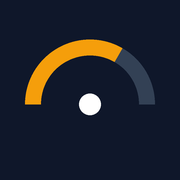
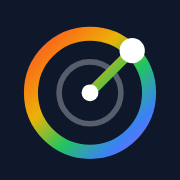
상단 네비게이션·무지개 상단바·로고 적용 (Disclosure Analysis), 임원 직무 기호 정리
Claude-Session: https://claude.ai/code/session_01H7kZjocQbS26bCtTYzWiFL

Changed region(s): [[0.1111, 0.1389, 0.8889, 0.8889]]

diff --git a/src/components/CompanyView.tsx b/src/components/CompanyView.tsx
@@ -7,6 +7,7 @@ import { FAV_KEY, pushRecent, toggleFavorite, useStoredList } from "@/lib/storag
 import type { CompanyBundle, Metrics, ScoreResult } from "@/lib/types";
 import { PartBar, Radar, ScoreGauge } from "./charts";
 import { Detail } from "./Detail";
+import { Logo, SITE_NAME } from "./Logo";
 import { Feed } from "./Feed";
 import { Simulator } from "./Simulator";
 import { Card, Disclaimer, Notice, RiskChip, SentimentChip } from "./ui";
@@ -67,25 +68,49 @@ export function CompanyView({ code }: { code: string }) {
 
   return (
     <div className="flex min-h-dvh flex-col">
-      <header className="sticky top-0 z-10 flex items-center gap-2 bg-slate-900 px-3 py-3 text-white">
-        <Link href="/" aria-label="뒤로" className="rounded-full px-2 py-1 text-lg active:bg-white/10">←</Link>
-        <div className="min-w-0 flex-1">
-          <h1 className="truncate text-base font-semibold">{bundle.info.name}</h1>
-          <p className="truncate text-[11px] text-slate-300">
-            {[bundle.info.market, bundle.info.stockCode].filter(Boolean).join(" · ")}
-          </p>
+      <header className="sticky top-0 z-20 bg-slate-900 text-white">
+        <div className="rainbow-bar h-1" />
+        <div className="flex items-center gap-2 px-3 py-2">
+          <Link href="/" aria-label="처음으로" className="flex items-center gap-1 rounded-full py-1 pr-1 text-lg active:bg-white/10">
+            <span className="px-1">←</span>
+            <Logo size={30} />
+          </Link>
+          <div className="min-w-0 flex-1">
+            <p className="rainbow-text text-[10px] font-bold uppercase tracking-wider">{SITE_NAME}</p>
+            <h1 className="truncate text-base font-semibold leading-tight">{bundle.info.name}</h1>
+            <p className="truncate text-[11px] text-slate-300">
+              {[bundle.info.market, bundle.info.stockCode].filter(Boolean).join(" · ")}
+            </p>
+          </div>
+          <button
+            onClick={() => toggleFavorite(bundle.info)}
+            aria-label={isFav ? "관심 기업에서 빼기" : "관심 기업에 담기"}
+            aria-pressed={isFav}
+            className="rounded-full px-2 py-1 text-xl active:bg-white/10"
+          >
+            {isFav ? "★" : "☆"}
+          </button>
         </div>
-        <button
-          onClick={() => toggleFavorite(bundle.info)}
-          aria-label={isFav ? "관심 기업에서 빼기" : "관심 기업에 담기"}
-          aria-pressed={isFav}
-          className="rounded-full px-2 py-1 text-xl active:bg-white/10"
-        >
-          {isFav ? "★" : "☆"}
-        </button>
+        <nav aria-label="메뉴" className="grid grid-cols-5 border-t border-white/10">
+          {TABS.map((t) => (
+            <button
+              key={t.id}
+              onClick={() => {
+                setTab(t.id);
+                window.scrollTo({ top: 0 });
+              }}
+              aria-current={tab === t.id ? "page" : undefined}
+              className={`relative flex flex-col items-center gap-0.5 py-2 text-[11px] ${tab === t.id ? "font-semibold text-white" : "text-slate-400"}`}
+            >
+              <span className="text-base leading-none">{t.icon}</span>
+              {t.label}
+              {tab === t.id && <span className="rainbow-bar absolute inset-x-2 bottom-0 h-[3px] rounded-full" />}
+            </button>
+          ))}
+        </nav>
       </header>
 
-      <main className="flex-1 space-y-3 p-3 pb-24">
+      <main className="flex-1 space-y-3 p-3 pb-8">
         {bundle.notice && <Notice tone={bundle.demo ? "info" : "warn"}>{bundle.notice}</Notice>}
         {tab === "summary" && <Summary bundle={bundle} score={score} />}
         {tab === "detail" && <Detail bundle={bundle} />}
@@ -94,23 +119,6 @@ export function CompanyView({ code }: { code: string }) {
         {tab === "info" && <Info bundle={bundle} />}
         <Disclaimer />
       </main>
-
-      <nav className="safe-bottom fixed inset-x-0 bottom-0 z-20 mx-auto grid max-w-md grid-cols-5 border-t border-slate-200 bg-white/95 backdrop-blur">
-        {TABS.map((t) => (
-          <button
-            key={t.id}
-            onClick={() => {
-              setTab(t.id);
-              window.scrollTo({ top: 0 });
-            }}
-            aria-current={tab === t.id ? "page" : undefined}
-            className={`flex flex-col items-center gap-0.5 py-2 text-[11px] ${tab === t.id ? "font-semibold text-slate-900" : "text-slate-400"}`}
-          >
-            <span className="text-lg leading-none">{t.icon}</span>
-            {t.label}
-          </button>
-        ))}
-      </nav>
     </div>
   );
 }

diff --git a/src/components/HomeClient.tsx b/src/components/HomeClient.tsx
@@ -5,6 +5,7 @@ import { useEffect, useState } from "react";
 import { demoList } from "@/lib/demo-data";
 import { clearRecent, FAV_KEY, RECENT_KEY, useStoredList } from "@/lib/storage";
 import type { CompanyInfo } from "@/lib/types";
+import { Logo, SITE_NAME } from "./Logo";
 import { Card, Disclaimer, Notice } from "./ui";
 
 export function HomeClient() {
@@ -42,9 +43,16 @@ export function HomeClient() {
 
   return (
     <div className="min-h-dvh">
-      <header className="bg-slate-900 px-4 pb-5 pt-6 text-white">
-        <h1 className="text-xl font-bold">공시 레이더</h1>
-        <p className="mt-1 text-xs text-slate-300">공시·재무·뉴스를 모아 기업 위험도를 한눈에</p>
+      <header className="bg-slate-900 text-white">
+        <div className="rainbow-bar h-1.5" />
+        <div className="px-4 pb-5 pt-4">
+        <div className="flex items-center gap-3">
+          <Logo size={44} />
+          <div>
+            <h1 className="rainbow-text text-xl font-extrabold leading-tight">{SITE_NAME}</h1>
+            <p className="text-xs text-slate-300">공시 분석 · 공시·재무·뉴스로 기업 위험도를 한눈에</p>
+          </div>
+        </div>
         <div className="mt-4 flex items-center gap-2 rounded-xl bg-white px-3 py-2.5 text-slate-900">
           <span aria-hidden>🔍</span>
           <input
@@ -58,6 +66,7 @@ export function HomeClient() {
           {q && (
             <button onClick={() => setQ("")} aria-label="지우기" className="text-slate-400">✕</button>
           )}
+        </div>
         </div>
       </header>
 

diff --git a/src/components/Logo.tsx b/src/components/Logo.tsx
@@ -1,0 +1,25 @@
+// 공시 분석(Disclosure Analysis) 로고: 무지개 링 레이더 + 반짝이는 신호점
+export const SITE_NAME = "Disclosure Analysis";
+
+export function Logo({ size = 32 }: { size?: number }) {
+  return (
+    <svg width={size} height={size} viewBox="0 0 64 64" role="img" aria-label={SITE_NAME} className="shrink-0">
+      <defs>
+        <linearGradient id="da-rainbow" x1="8" y1="8" x2="56" y2="56" gradientUnits="userSpaceOnUse">
+          <stop offset="0" stopColor="#ef4444" />
+          <stop offset="0.2" stopColor="#f97316" />
+          <stop offset="0.4" stopColor="#eab308" />
+          <stop offset="0.6" stopColor="#22c55e" />
+          <stop offset="0.8" stopColor="#3b82f6" />
+          <stop offset="1" stopColor="#a855f7" />
+        </linearGradient>
+      </defs>
+      <rect width="64" height="64" rx="15" fill="#0f172a" />
+      <circle cx="32" cy="33" r="21" fill="none" stroke="url(#da-rainbow)" strokeWidth="5" />
+      <circle cx="32" cy="33" r="11" fill="none" stroke="#fff" strokeOpacity="0.3" strokeWidth="2" />
+      <path d="M32 33 L47 18" stroke="url(#da-rainbow)" strokeWidth="3.5" strokeLinecap="round" />
+      <circle cx="32" cy="33" r="3" fill="#fff" />
+      <circle cx="47" cy="18" r="4.5" fill="#fff" />
+    </svg>
+  );
+}

diff --git a/src/app/layout.tsx b/src/app/layout.tsx
@@ -2,10 +2,10 @@ import type { Metadata, Viewport } from "next";
 import "./globals.css";
 
 export const metadata: Metadata = {
-  title: "공시 레이더 - 기업 위험도 한눈에",
+  title: "Disclosure Analysis - 공시 분석",
   description: "공시·재무·뉴스를 모아 기업의 위험도와 안정성을 한눈에 보고 시뮬레이션하는 모바일 사이트",
-  applicationName: "공시 레이더",
-  appleWebApp: { capable: true, title: "공시 레이더", statusBarStyle: "default" },
+  applicationName: "Disclosure Analysis",
+  appleWebApp: { capable: true, title: "Disclosure Analysis", statusBarStyle: "default" },
 };
 
 export const viewport: Viewport = {

diff --git a/src/lib/dart.ts b/src/lib/dart.ts
@@ -250,7 +250,7 @@ export async function fetchOfficers(code: string, key: string): Promise<Officer[
       name: (r.nm ?? "").trim(),
       position: (r.ofcps ?? "").trim(),
       registered: (r.rgist_exctv_at ?? "").trim(),
-      duty: (r.chrg_job ?? "").trim() || undefined,
+      duty: (r.chrg_job ?? "").replace(/\s+/g, " ").replace(/^ㆍ\s*/, "").replace(/\s*ㆍ\s*/g, " · ").trim() || undefined,
     }))
     .filter((o) => o.name && !seen.has(o.name) && seen.add(o.name))
     .slice(0, 12);

diff --git a/src/app/globals.css b/src/app/globals.css
@@ -32,3 +32,14 @@ input[type="range"] {
   accent-color: #0f172a;
   height: 28px;
 }
+
+/* 무지개 그라데이션 (상단바 줄·로고 글자·선택 탭 밑줄) */
+.rainbow-bar {
+  background: linear-gradient(90deg, #ef4444, #f97316, #eab308, #22c55e, #3b82f6, #a855f7);
+}
+.rainbow-text {
+  background: linear-gradient(90deg, #f87171, #fb923c, #facc15, #4ade80, #60a5fa, #c084fc);
+  -webkit-background-clip: text;
+  background-clip: text;
+  color: transparent;
+}

diff --git a/src/app/manifest.ts b/src/app/manifest.ts
@@ -2,8 +2,8 @@ import type { MetadataRoute } from "next";
 
 export default function manifest(): MetadataRoute.Manifest {
   return {
-    name: "공시 레이더",
-    short_name: "공시레이더",
+    name: "Disclosure Analysis",
+    short_name: "Disclosure",
     description: "공시·재무·뉴스로 기업 위험도를 한눈에",
     start_url: "/",
     display: "standalone",
